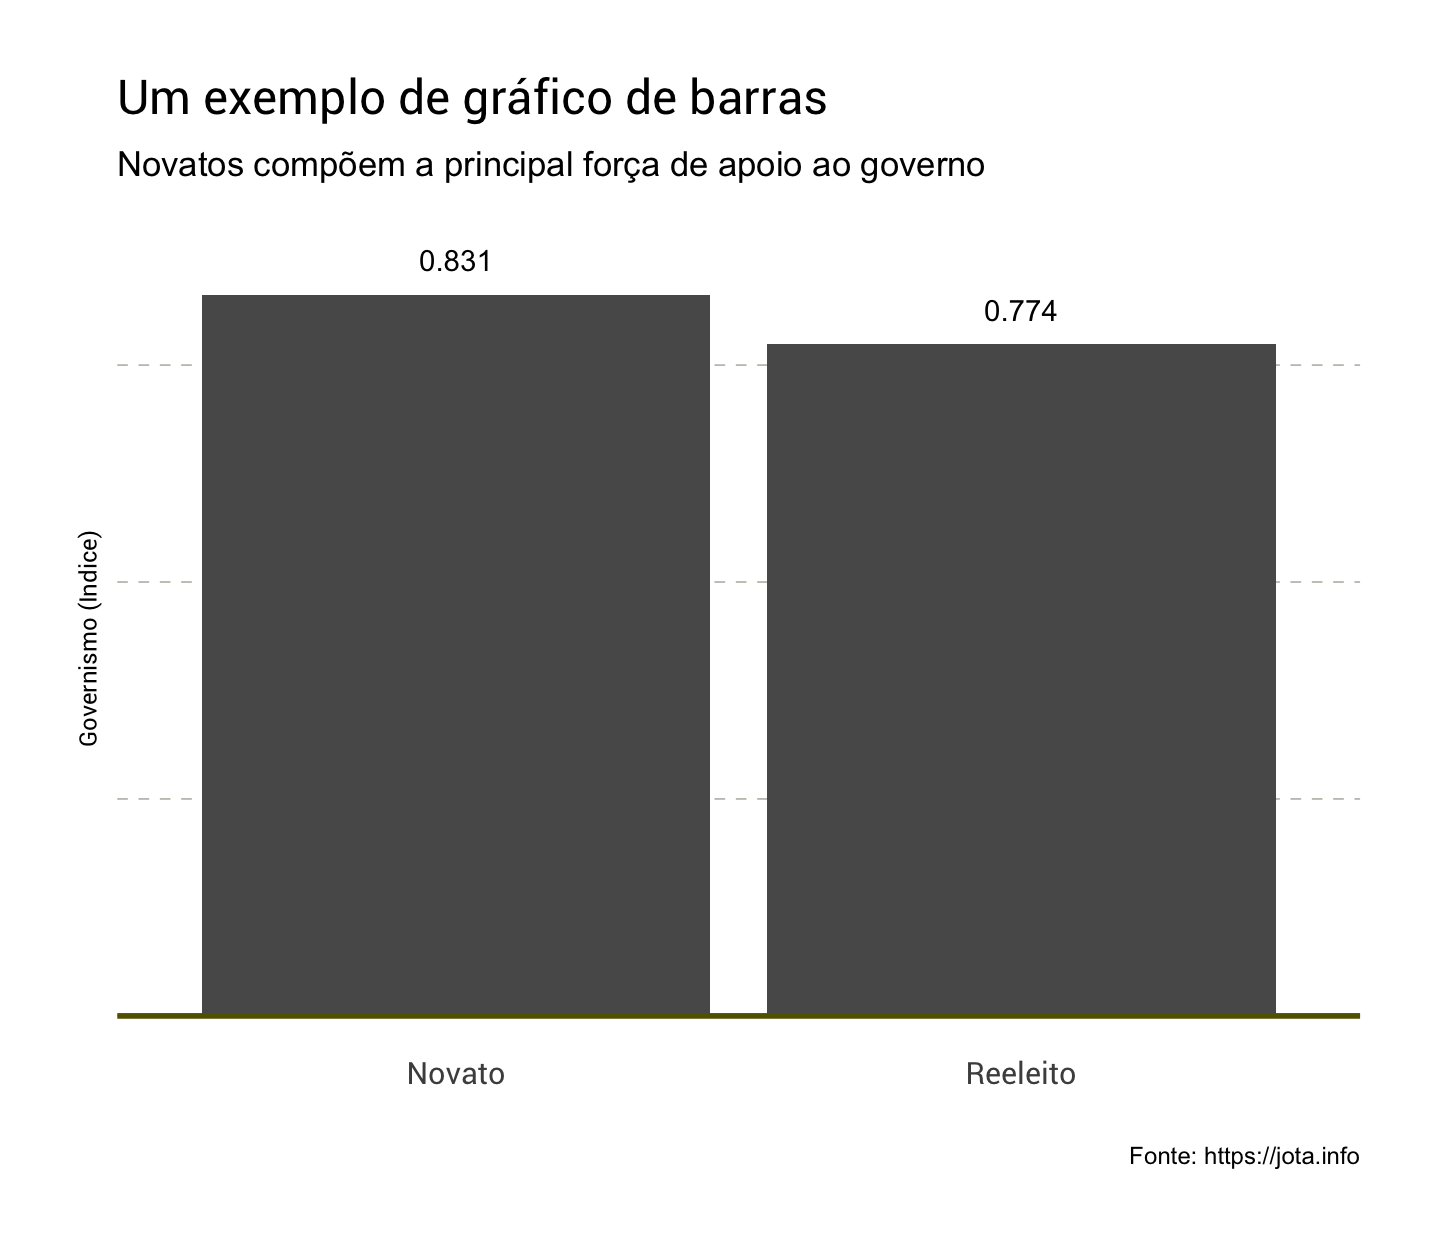
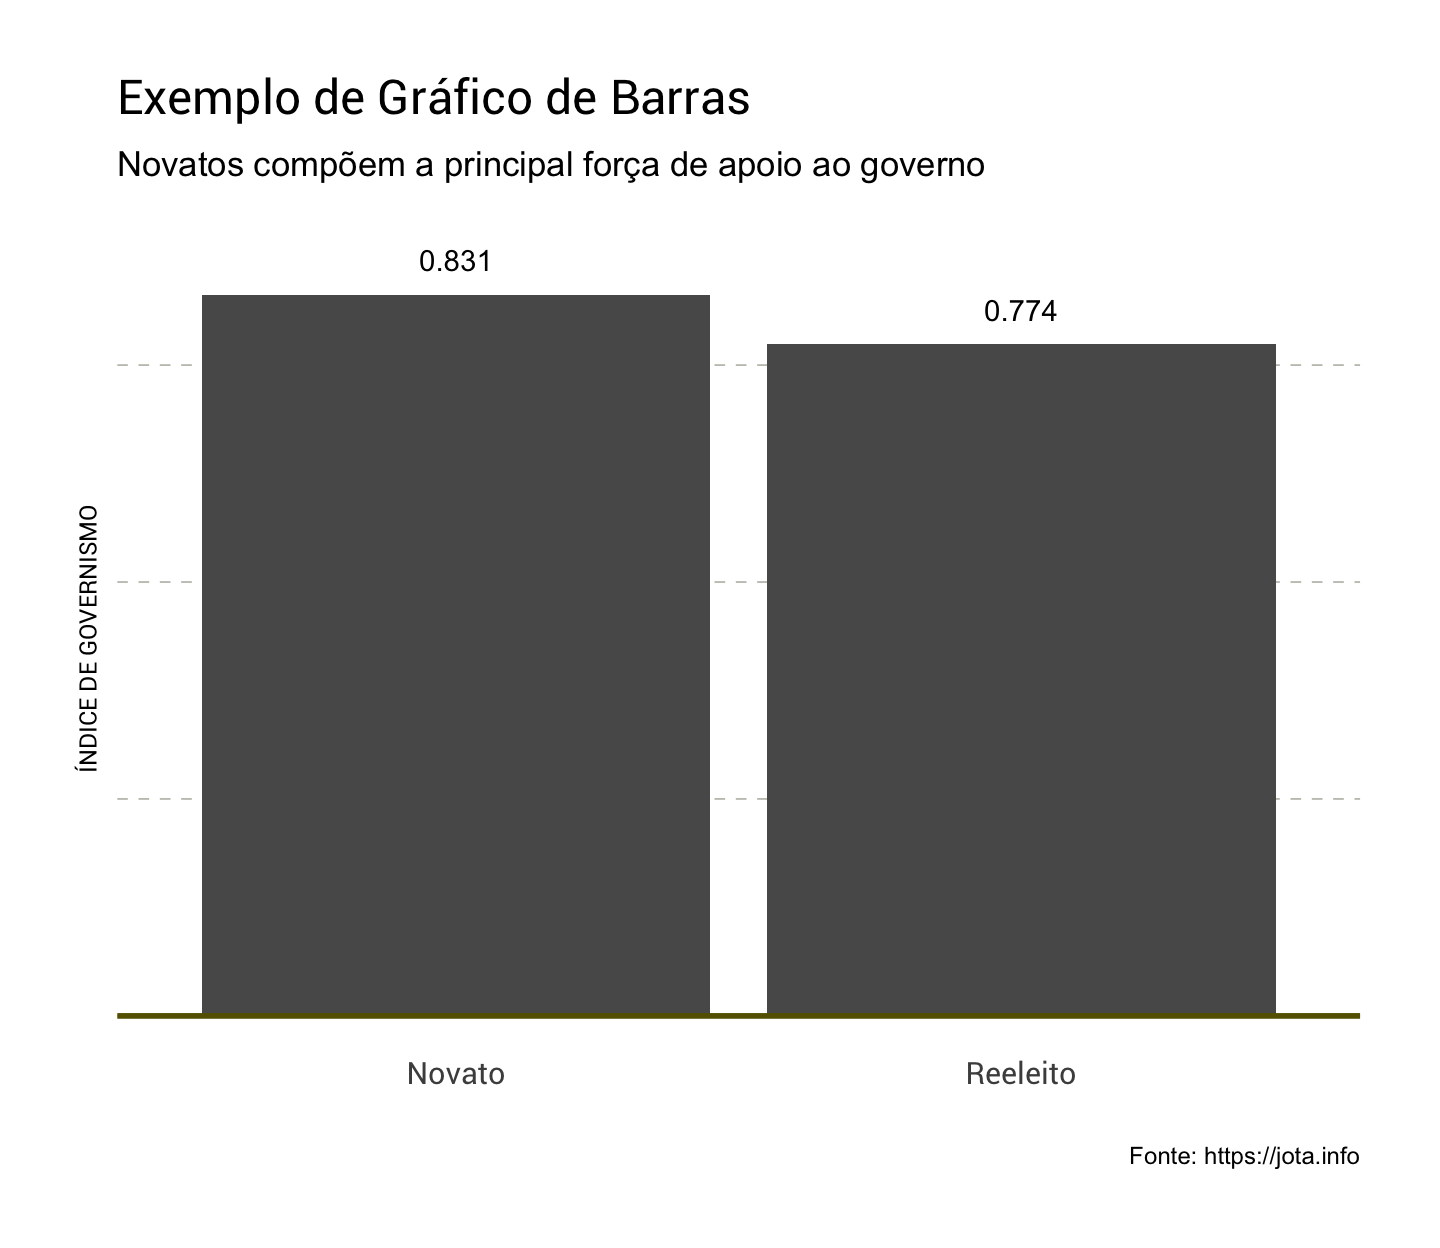
add themes

Changed region(s): [[0.0625, 0.0625, 0.5938, 0.0938], [0.0312, 0.4062, 0.0938, 0.625]]

diff --git a/README.md b/README.md
@@ -25,7 +25,7 @@ ggplot(Governismo, aes(x=D1, y=D2)) +
 geom_point() +
 geom_abline(aes(slope = -Beta1/Beta2, intercept = -Intercept/Beta2)) +
 labs(x="IDEOLOGIA (D1)", y="POSICIONAMENTO ECONÔMICO (D2)",
-title="Um exemplo de scatterplot",
+title="Exemplo de Scatterplot",
 subtitle="Apoio ao texto da Reforma: Threshold 80% a 20%",
 caption="Fonte: https://jota.info") +
 theme_jota()
@@ -42,11 +42,11 @@ ggplot() +
   geom_point(aes(x = D1, y = D2, color = Indice)) +
   geom_abline(aes(slope = -Beta1/Beta2, intercept = -Intercept/Beta2)) +
 labs(x="IDEOLOGIA (D1)", y="POSICIONAMENTO ECONÔMICO (D2)",
-     title="Scatterplot exemplo",
+     title="Exemplo de Scatterplot",
      subtitle="Apoio ao texto da Reforma: Threshold 80% a 20%",
      caption="Fonte: https://jota.info") +
-  theme_jota() + 
-  scale_color_jota() +
+   theme_jota() + 
+  scale_color_idealpoints() +
    theme(legend.position = "top")
 ```
 
@@ -63,11 +63,11 @@ ggplot() +
   geom_vline(xintercept = 0, size = .75, colour="#cbcbcb") +
   geom_abline(aes(slope = -Beta1/Beta2, intercept = -Intercept/Beta2)) +
 labs(x="IDEOLOGIA (D1)", y="POSICIONAMENTO ECONÔMICO (D2)",
-     title="Scatterplot exemplo",
+     title="Exemplo de Scatterplot",
      subtitle="Apoio ao texto da Reforma: Threshold 80% a 20%",
      caption="Fonte: https://jota.info") +
   theme_jota(grid = FALSE) + 
-  scale_color_jota() +
+  scale_color_idealpoints() +
    theme(legend.position = "top")
 ```
 
@@ -83,8 +83,8 @@ group_by(Governismo, Reeleito) %>%
   geom_col() +
   geom_hline(yintercept = 0, size = 1, colour="#666000") +
   geom_text(aes(label=round(Indice,3)), nudge_y=.04) +
-  labs(x="", y="Governismo (Indice)",
-       title="Um exemplo de gráfico de barras",
+  labs(x="", y="ÍNDICE DE GOVERNISMO",
+       title="Exemplo de Gráfico de Barras",
        subtitle="Novatos compõem a principal força de apoio ao governo",
        caption="Fonte: https://jota.info") +
   theme_jota(grid="Y") +
@@ -101,8 +101,8 @@ group_by(Governismo, Reeleito) %>%
   geom_col() +
   geom_hline(yintercept = 0, size = 1, colour="#666000") +
   geom_text(aes(label=round(Indice,3)), nudge_y=.04) +
-  labs(x="", y="Governismo (Indice)",
-       title="Um exemplo de gráfico de barras",
+  labs(x="", y="ÍNDICE DE GOVERNISMO",
+       title="Exemplo de Gráfico de Barras",
        subtitle="Novatos compõem a principal força de apoio ao governo",
        caption="Fonte: https://jota.info") +
   theme_jota(grid="Y") +
@@ -112,28 +112,9 @@ group_by(Governismo, Reeleito) %>%
 
 <img src="inst/figs/README-unnamed-chunk-8-1.png" width="720" style="display: block; margin: auto;" />
 
-``` r
-# Cut points 
-mutate(Governismo, Indice = ifelse(Prob_Votacao > 0.8, "Favorável", ifelse(Prob_Votacao < 0.2, "Desfavorável", "Neutro"))) %>%
-ggplot() +
-  geom_point(aes(x = D1, y = D2, color = Indice)) +
-  geom_hline(yintercept = 0, size = .75, colour="#cbcbcb") +
-  geom_vline(xintercept = 0, size = .75, colour="#cbcbcb") +
-  geom_abline(aes(slope = -Beta1/Beta2, intercept = -Intercept/Beta2)) +
-labs(x="IDEOLOGIA (D1)", y="POSICIONAMENTO ECONÔMICO (D2)",
-     title="Scatterplot exemplo",
-     subtitle="Apoio ao texto da Reforma: Threshold 80% a 20%",
-     caption="Fonte: https://jota.info") +
-  theme_jota() + 
-  scale_color_jota() +
-   theme(legend.position = "top")
-```
-
-<img src="inst/figs/README-unnamed-chunk-9-1.png" width="720" style="display: block; margin: auto;" />
-
 ### jotaR Metrics
 
 | Lang | \# Files |  (%) | LoC |  (%) | Blank lines |  (%) | \# Lines |  (%) |
 | :--- | -------: | ---: | --: | ---: | ----------: | ---: | -------: | ---: |
-| R    |        5 | 0.83 | 157 | 0.62 |          45 | 0.64 |      150 | 0.81 |
-| Rmd  |        1 | 0.17 |  96 | 0.38 |          25 | 0.36 |       35 | 0.19 |
+| R    |        5 | 0.83 | 163 | 0.66 |          52 | 0.69 |      168 | 0.84 |
+| Rmd  |        1 | 0.17 |  83 | 0.34 |          23 | 0.31 |       32 | 0.16 |
